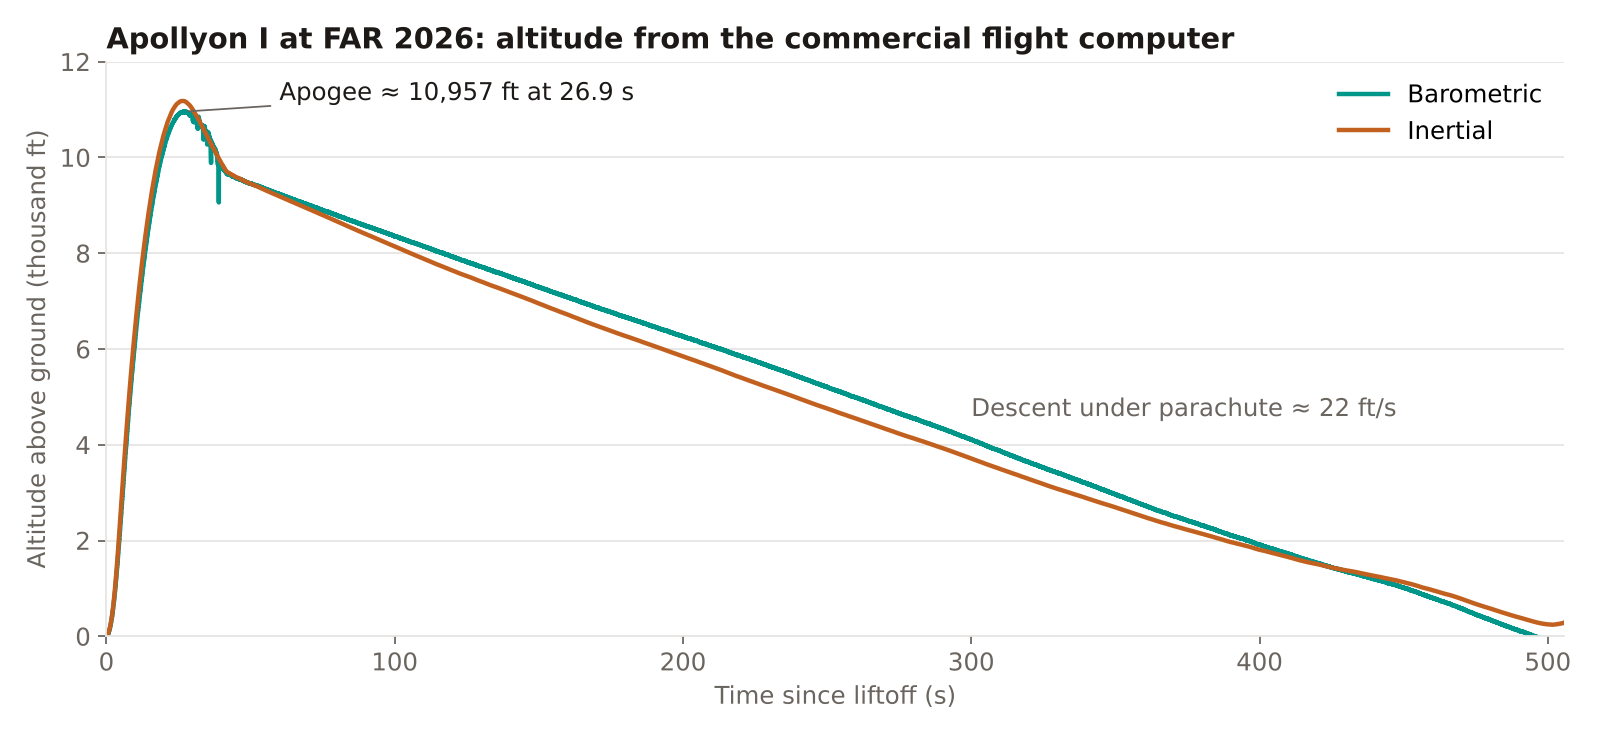
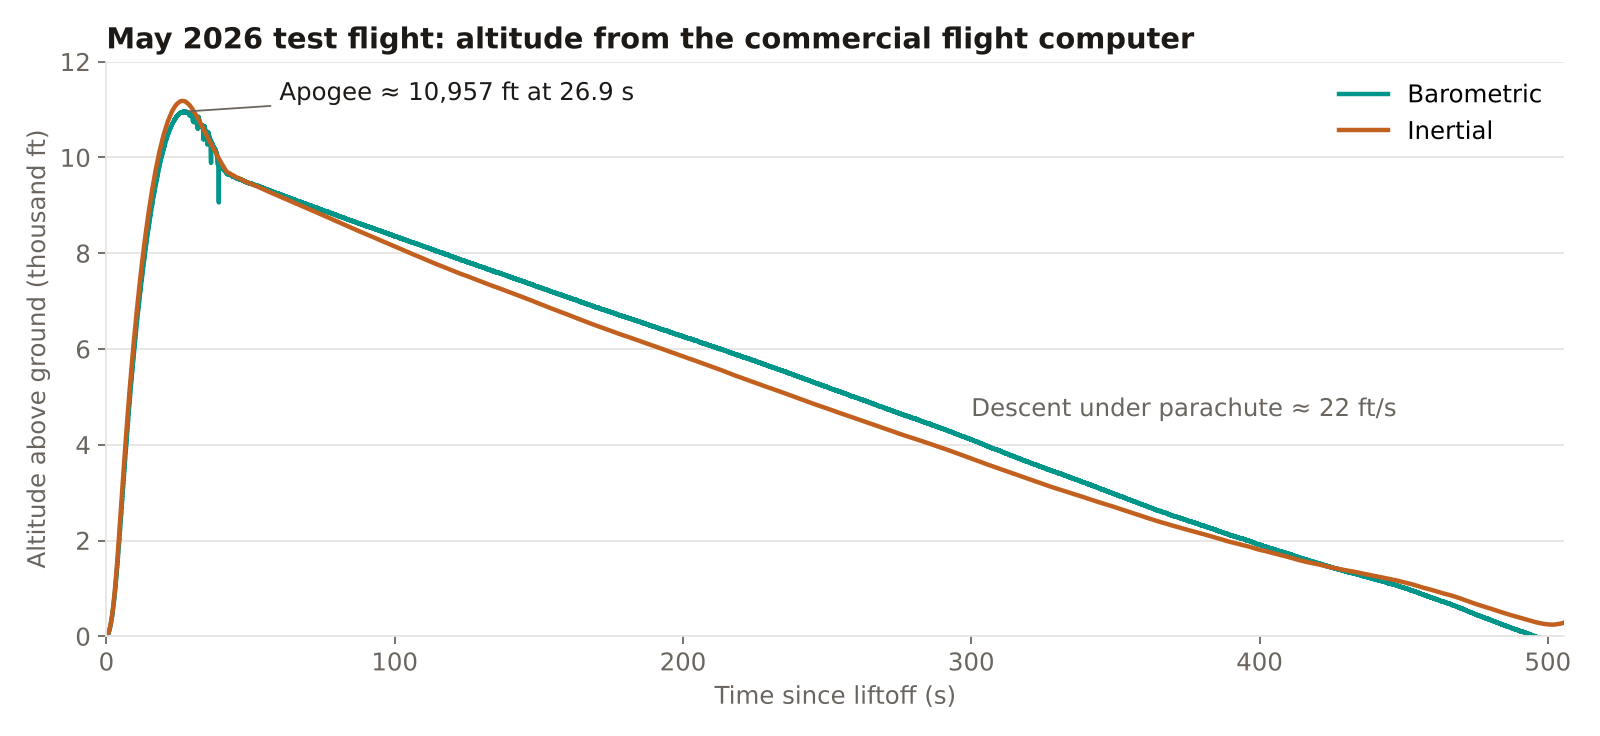
Proton test wording, review quote, flight log is a test flight
Claude-Session: https://claude.ai/code/session_01Vu8KpaWNSpW6pgttvZvrSD

Changed region(s): [[0.0625, 0.0312, 0.7812, 0.0938]]

diff --git a/src/content/experience/rtx-collins/index.md b/src/content/experience/rtx-collins/index.md
@@ -12,7 +12,7 @@ highlights:
   - Designed a level-shifted JTAG adapter in Altium for Ethernet-card programming and boundary-scan debug. It released first pass with no re-spin, and I led its bring-up, documentation and qualification.
   - Ran DO-160G and MIL-STD environmental qualification with the test technicians. Diagnosed a radiated-emissions failure and fixed it with series damping on a high-speed clock, recovering three weeks of schedule.
   - Authored 450+ hardware requirements and 300+ verification test cases in DOORS, keeping system-to-hardware traceability through five formal PREP reviews.
-  - Modified a circuit card layout and rerouted 10+ signal lines so two display units could undergo radiation beam testing of a replacement flash memory.
+  - Modified a circuit card layout and rerouted 10+ signal lines so two display units could undergo proton-radiation testing of a replacement flash memory.
   - Wrote a PCB quick-turn guide defining design constraints for faster prototyping with less downstream redesign.
   - Received the Display Department Outstanding Employee "Certificate of Excellence" (2026).
 ---
@@ -25,7 +25,7 @@ I joined the avionics display group as a co-op and worked across the hardware li
 
 The panels store their display firmware and configuration in a parallel NOR flash that had gone obsolete, so it needed a replacement. At cruise altitude, high-energy neutrons can flip a bit in memory (a single-event upset) or push a chip into a high-current latch-up that forces a restart. A flipped bit in RAM is usually caught by error correction, but a flipped bit in flash stays there through power cycles. On a cockpit display that could mean corrupted characters or a mislabeled altitude reading that only shows up weeks later.
 
-Beam testing exposes exactly that kind of failure, so the customer required it. I modified a circuit card layout and rerouted more than ten signal lines so two display units could be instrumented for the test. The goal was to confirm that the new part doesn't produce persistent upsets, and that the firmware recovers correctly when one happens.
+Proton beam testing exposes exactly that kind of failure, so the customer required it. I modified a circuit card layout and rerouted more than ten signal lines so two display units could be instrumented for the test. The goal was to confirm that the new part doesn't produce persistent upsets, and that the firmware recovers correctly when one happens.
 
 ## Chasing an EMI failure
 
@@ -48,6 +48,10 @@ One audio-frequency emissions test had a mystery box in its setup. It appeared i
 ## Recognition
 
 In March 2026 the Display Products Engineering group gave me its Certificate of Excellence for helping the team finish qualification testing and submit the flash-update program for certification review.
+
+> "Amy's willingness to challenge opinions when something doesn't make sense showcases her critical thinking and commitment to delivering high-quality work."
+>
+> From my manager's 2025 year-end review
 
 ![Certificate of Excellence from Display Products Engineering, Collins Aerospace](./certificate.jpg)
 

diff --git a/src/content/experience/rocketry-avionics/index.md b/src/content/experience/rocketry-avionics/index.md
@@ -39,7 +39,7 @@ Our competition rockets are dual-deploy. A small drogue parachute comes out at a
 
 ## What a flight looks like in the data
 
-This is the log from our 2026 competition flight, recorded by the commercial flight computer in the avionics bay. The motor burns for about five and a half seconds and takes the rocket to 886 ft/s, around Mach 0.8. It then coasts for another 21 seconds to an apogee of about 10,960 ft above the ground, and spends the next eight minutes coming down under parachute at roughly 22 ft/s.
+This is the log from a May 2026 test flight, recorded by the commercial flight computer in the avionics bay. The motor burns for about five and a half seconds and takes the rocket to 886 ft/s, around Mach 0.8. It then coasts for another 21 seconds to an apogee of about 10,960 ft above the ground, and spends the next eight minutes coming down under parachute at roughly 22 ft/s.
 
 ![Barometric and inertial altitude over the whole flight, from liftoff to landing about 500 seconds later](./flight-altitude.png)
 
